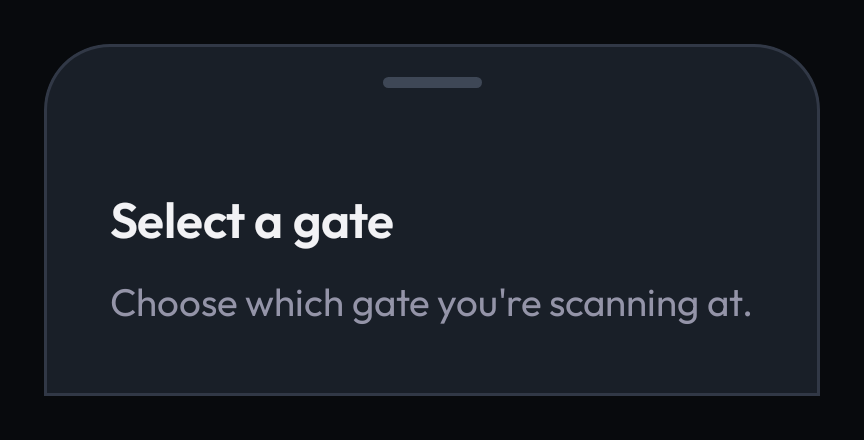
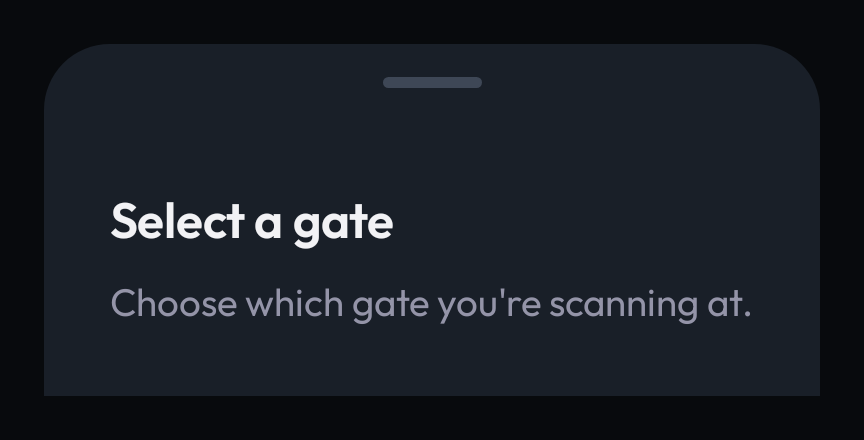
Drop the dark-theme outline from JengaBottomSheet

diff --git a/jenga/src/commonMain/kotlin/io/github/joelkanyi/jenga/component/feedback/JengaBottomSheet.kt b/jenga/src/commonMain/kotlin/io/github/joelkanyi/jenga/component/feedback/JengaBottomSheet.kt
@@ -5,7 +5,6 @@ import androidx.compose.foundation.layout.Box
 import androidx.compose.foundation.layout.ColumnScope
 import androidx.compose.foundation.layout.padding
 import androidx.compose.foundation.layout.size
-import androidx.compose.material3.BottomSheetDefaults
 import androidx.compose.material3.ExperimentalMaterial3Api
 import androidx.compose.material3.ModalBottomSheet
 import androidx.compose.material3.ModalBottomSheetDefaults
@@ -148,7 +147,7 @@ public fun JengaBottomSheet(
         onDismissRequest = {
             if (!sheetState.isVisible) onDismissRequest()
         },
-        modifier = modifier.overlayOutline(darkThemeHairline(), BottomSheetDefaults.ExpandedShape),
+        modifier = modifier,
         sheetState = sheetState.m3State,
         sheetGesturesEnabled = gesturesEnabled,
         containerColor = JengaTheme.colors.surface,

diff --git a/jenga/src/androidMain/kotlin/io/github/joelkanyi/jenga/component/feedback/JengaBottomSheetPreviews.kt b/jenga/src/androidMain/kotlin/io/github/joelkanyi/jenga/component/feedback/JengaBottomSheetPreviews.kt
@@ -43,8 +43,7 @@ private fun BottomSheetSurfacePreview() {
         Column(
             modifier = Modifier
                 .clip(BottomSheetDefaults.ExpandedShape)
-                .background(JengaTheme.colors.surface)
-                .overlayOutline(darkThemeHairline(), BottomSheetDefaults.ExpandedShape),
+                .background(JengaTheme.colors.surface),
             horizontalAlignment = Alignment.CenterHorizontally,
         ) {
             JengaDragHandle()

diff --git a/CHANGELOG.md b/CHANGELOG.md
@@ -12,7 +12,7 @@
  * New: `JengaImageViewer` overload with pages: swipe between images, each zoomed on its own, with a bottom bar that can move to any page.
  * New: `JengaDropdownMenu` draws a 1dp outline in dark themes by default (`JengaDropdownMenuDefaults.border`), so the menu's edge shows on dark screens. Pass `border = null` for none.
  * New: `JengaDialog` (and the date and time picker dialogs) draws the same dark-theme outline (`JengaDialogDefaults.border`); `JengaDialog` takes `border` to change or remove it.
- * New: in dark themes, `JengaBottomSheet` (and `JengaListSheet`), `JengaSideSheet` and the elevated `JengaCard` draw the same 1dp outline, since shadows and surface edges don't show on dark backgrounds.
+ * New: in dark themes, `JengaSideSheet` and the elevated `JengaCard` draw the same 1dp outline, since shadows and surface edges don't show on dark backgrounds.
  * Fix: a ring `JengaTimelineMarker` now gives its content the ring color by default, so a number inside it reads on light backgrounds.
  * Fix: `JengaBottomSheet` no longer calls `onDismissRequest` on Back when the sheet did not close.
 
